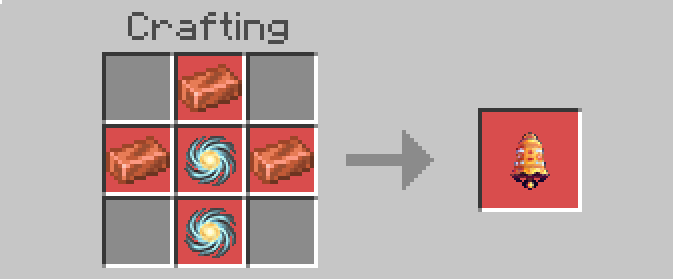
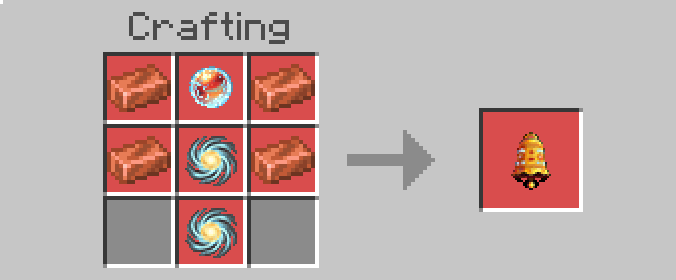
upload file

diff --git a/README.md b/README.md
@@ -853,7 +853,7 @@
   1. 主手持有时：抗性提升拉满
   2. 使用时：对半径25格的范围内生物持续震慑，同时敌对生物会受法音攻击
 - 副作用：主手持有时，自身移速降低 + 饱食度降低「很可惜，你跑不快」
-- 合成方式：2个炁 + 3个铜锭
+- 合成方式：2个炁 + 5个铜锭 + 1个尸丹
 
 ![](https://github.com/MichaelHyan/MCBE-add-on-Taoism-Craft/blob/main/crafting%20table/bell.png)
 
